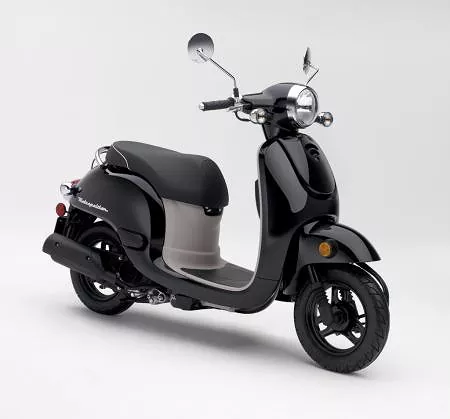
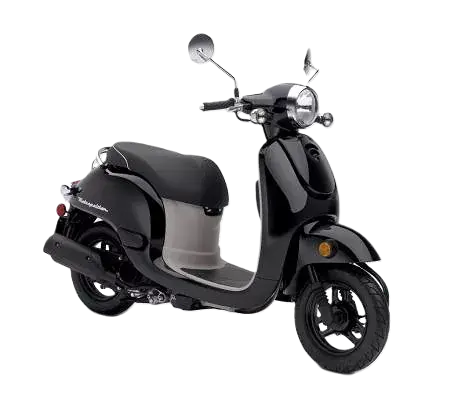
corrections

diff --git a/scoots/index.html b/scoots/index.html
@@ -23,7 +23,7 @@
 <body>
     <header>
         <div id="logo">
-            <img id="img-header" src="images/scoots-logo.png" alt="Scoots Logo">
+            <img id="img-header" src="images/scoots-logo.webp" alt="Scoots Logo">
         </div>
         <div>
             <a href="https://facebook.com" target="_blank" rel="noopener noreferrer">
@@ -67,9 +67,9 @@
         </div>
 
         <aside id="company">
-            <h4>🌴 Explore Cozumel in Style with Scooter Bliss! 🛵🌊</h4>
+            <h4>🌴 Explore Cozumel in Style with Scoots! 🛵🌊</h4>
             <ul class="styled-list">
-                <li>Embark on a thrilling adventure and discover the breathtaking beauty of Cozumel Beach with Scooter Bliss,
+                <li>Embark on a thrilling adventure and discover the breathtaking beauty of Cozumel Beach with Scoots,
                     your premier scooter rental service on this tropical paradise!</li>
             </ul>
             <h4>🌟 Why Scoots?</h4>
@@ -96,7 +96,7 @@
                     <p>1 person</p>
                 </div>
                 <div>
-                    <img src="images/honda-metropolitan.png" alt="Honda-Metropolitan">
+                    <img src="images/honda-metropolitan.webp" alt="Honda-Metropolitan" loading="lazy">
                 </div>
                 <div>
                     <p>Honda Dio</p>
@@ -104,7 +104,7 @@
                     <p>2 person</p>
                 </div>
                 <div>
-                    <img src="images/Honda-DIO.png" alt="Honda-Metropolitan">
+                    <img src="images/Honda-DIO.webp" alt="Honda-Metropolitan" loading="lazy">
                 </div>
                 <div>
                     <p>Honda PCX150
@@ -113,7 +113,7 @@
                     <p>2 person</p>
                 </div>
                 <div>
-                    <img src="images/honda-pcx150.png" alt="Honda-Metropolitan">
+                    <img src="images/honda-pcx150.webp" alt="Honda-Metropolitan" loading="lazy">
                 </div>
                 <h3 class="rental-types-tag">ATVs</h3>
 
@@ -122,7 +122,7 @@
                     <p>4 person</p>
                 </div>
                 <div>
-                    <img src="images/Honda-Pioneer-1000.webp" alt="Honda Pioneer 1000">
+                    <img src="images/Honda-Pioneer-1000.webp" alt="Honda Pioneer 1000" loading="lazy">
                 </div>
                 <h3 class="rental-types-tag">Jeeps</h3>
                 <div>
@@ -130,7 +130,7 @@
                     <p>5 person</p>
                 </div>
                 <div>
-                    <img src="images/Jeep-Wrangler-4-Door.png" alt="4 door Jeep Wrangler">
+                    <img src="images/Jeep-Wrangler-4-Door.webp" alt="4 door Jeep Wrangler" loading="lazy">
                 </div>
                 <div>
                     <p>Jeep Wrangler - 2 door - open air - manuel</p>
@@ -138,7 +138,7 @@
                     <p>4 person</p>
                 </div>
                 <div>
-                    <img src="images/2-door-2016-jeep-wrangler.png" alt="2 door - Jeep Wrangler">
+                    <img src="images/2-door-2016-jeep-wrangler.webp" alt="2 door - Jeep Wrangler" loading="lazy">
                 </div>
 
         </div>
@@ -168,7 +168,7 @@
     </main>
     <footer>
         <div id="contact-info">
-            <img id="footer-img" src="images/scoots-logo.png" loading="lazy" alt="Monterrey Logo">
+            <img id="footer-img" src="images/scoots-logo.webp" loading="lazy" alt="Monterrey Logo">
             <h4>Cozumel, México </h4>
             <h4>Contact us! </h4>
             <h4>+52 999-91-24</h4>

diff --git a/scoots/contact.html b/scoots/contact.html
@@ -44,7 +44,7 @@
 
 
     <main id="main-index">
-        <div>
+        <div id="contact-info1">
             <h2>Contact us!</h2>
             <p>Phone: +52 987-555-1234 </p>
             

diff --git a/scoots/styles/base.css b/scoots/styles/base.css
@@ -400,3 +400,8 @@ form label.top input:required:valid {
 #reservations-title{
   text-align: center;
 }
+
+#contact-info1 h2{
+  text-align: center;
+
+}
